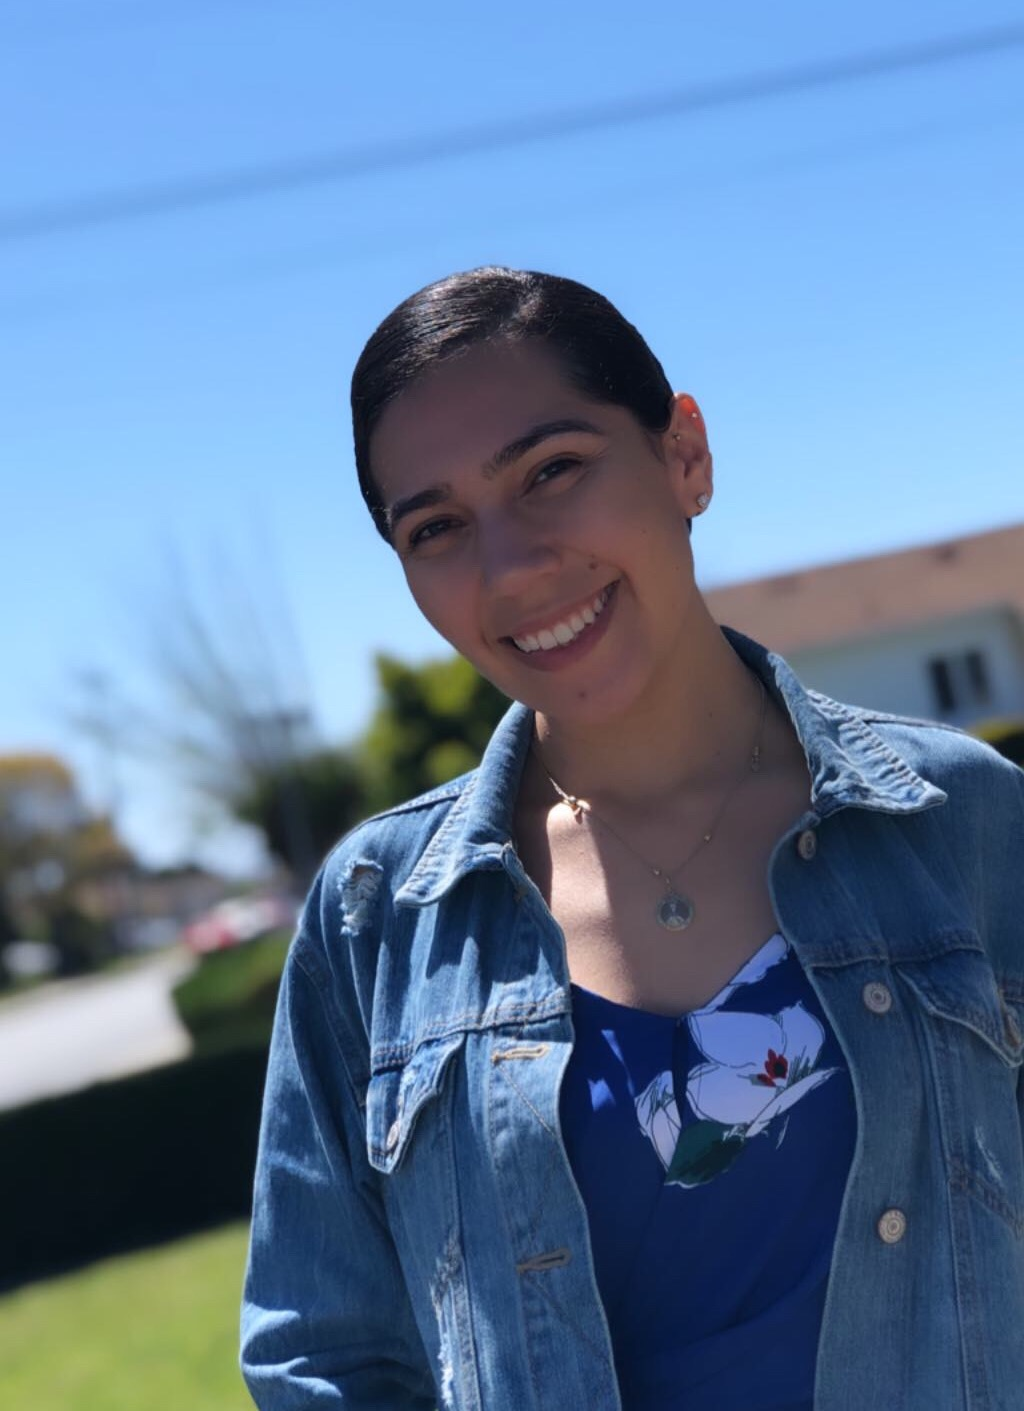
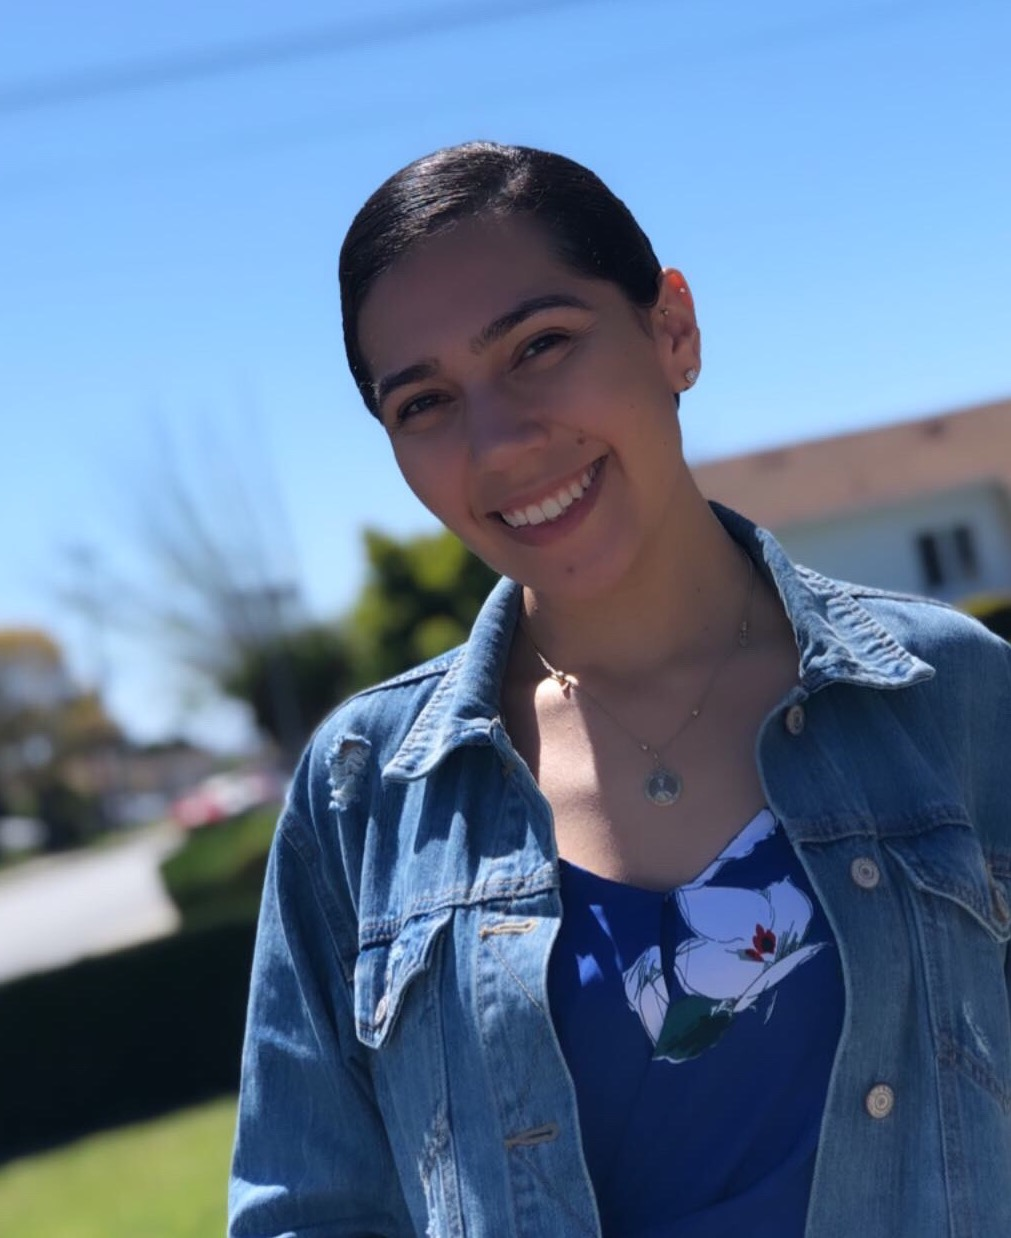
changed about page background and layout

diff --git a/src/components/About.js b/src/components/About.js
@@ -1,5 +1,4 @@
 import React, { Component } from 'react'
-import portrait from '../images/portrait.jpeg'
 import './stylesheets/about.css'
 import resume from '../images/lopez-resume.pdf'
 
@@ -7,8 +6,13 @@ export default class About extends Component {
   render() {
     return (
       <div className='about-container'>
-        <div className="vertical-swatch"></div>
         <div className='about-content'>
+          <div className='about-info'>
+            <h1 className='greeting'>Hello, I'm Haley.</h1>
+            <p className='about-text'>I am a Bay Area native looking for an opportunity to make social impact through technology. Technically, I built my first basic web application in 2012, but I didn't think I could pursue engineering fulltime so pursued a different route in higher education. After graduating with a B.S. in business, I went straight into nonprofit development where I learned there were many other ways to impact communities and chose to start learning HTML, CSS, and Javascript. </p>
+
+            <p>I was able to get into Rithm School, a bootcamp in San Francisco and learned a bunch of technologies and problem solving techniques. While at Rithm, I became proficient in a wide range of web technologies: Node, Express, Python, SQL, React, and more. For more details about my experience, click <a className='about-text-anchor' href={resume}>here</a>. </p>
+          </div>
           <div className='about-portrait-info'>
             <div className='portrait'>
             </div>
@@ -26,11 +30,8 @@ export default class About extends Component {
               </a>
             </div>
           </div>
-          <div className='about-info'>
-            <p className='greeting'>Hello</p>
-            <p className='about-text'>I am a Bay Area native looking for an opportunity to make global impact through an engineering role. I am proficient in a wide range of web technologies: Node, Express, Python, SQL, React, and more. For more details about my experience, click <a className='about-text-anchor' href={resume}>here</a>. </p> </div>
         </div>
       </div>
-        )
-      }
-    }
+    )
+  }
+}

diff --git a/src/components/stylesheets/about.css b/src/components/stylesheets/about.css
@@ -1,67 +1,48 @@
 .about-container{
+  height: 100vh;
   padding: 0;
   display: flex;
   justify-content: center;
   text-align: center;
   align-content: center;
   flex-flow: row wrap;
-  background-color: purple;
-  background-image: url('../../images/flowers.jpeg');
-  background-position: 5% 75%;
-  background-repeat: no-repeat;
-  background-size: contain;
-}
-
-/* .rectangle{
-  height: 100vh;
-  width: 100px;
-  background-image: url('../../images/flowers.jpeg');
-  background-position: center;
+  background-image: url('../../images/sunflowers.jpg');
   background-repeat: no-repeat;
   background-size: cover;
-} */
- 
- /* .rectangle{
-  background-image: url('../../images/flowers.jpeg');
-  background-position: 5% 75%;
-  background-repeat: no-repeat;
-  background-size: contain;
-  background-color:palegreen; 
-} */
+}
  
 .about-content{
   display: flex;
-  flex-direction: column;
-  min-height: 100vh;
   justify-content: center;
   align-items: center;
-  background-color: orangered;
+  background-color: white;
+  max-width: 60rem;
+  padding: 30px 35px;
 }
 
 .about-portrait-info{
   display: flex;
   align-items: center;
-  background-color: greenyellow;
 }
 
 .portrait{
-  background-image: url('../../images/portrait.jpeg');
-  height: 400px;
-  width: 300px;
+  background-image: url('../../images/round.png');
+  height: 350px;
+  width: 230px;
   background-position: center;
   background-repeat: no-repeat;
   background-size: contain;
+  margin-right: 5px;
 }
 
 .about-info{
-  width: 610px;
+  width: 40rem;
 }
 
 .greeting{
-  font-size: 5rem;
-  font-family: 'Dancing Script', cursive;
-  margin-bottom: 0;
-  /* background-color: aqua; */
+  font-size: 3.3rem;
+  font-family: 'Frank Ruhl Libre', serif; 
+   margin-bottom: 0;
 }
 
 .about-icon{
@@ -69,14 +50,8 @@
   color: black;
 }
 
-.about-icons{
-  /* background-color: orange; */
-  margin: 5px;
-}
-
 .about-text{
-  font-size: 1rem;
-  /* background-color: pink; */
+  font-size: .9rem;
   font-family: 'Lora', serif;
 }
 

diff --git a/src/components/NavBar.js b/src/components/NavBar.js
@@ -3,7 +3,7 @@ import { NavLink } from 'react-router-dom'
 import './stylesheets/navbar.css'
 
 export default class NavBar extends Component {
-  constructor(props){
+  constructor(props) {
     super(props);
     this.state = {
       navbarExpanded: false
@@ -12,7 +12,7 @@ export default class NavBar extends Component {
 
   toggleNav = () => {
     this.setState({
-      navbarExpanded:!this.state.navbarExpanded
+      navbarExpanded: !this.state.navbarExpanded
     })
   }
   render() {
@@ -25,14 +25,14 @@ export default class NavBar extends Component {
 
         <div className="collapse navbar-collapse" id="navbarTogglerDemo02">
           <ul className="navbar-nav mr-auto ml-auto mt-2 mt-lg-0">
-            <li className="nav-item active">
-              <NavLink className="nav-link" exact to='/' onClick={this.toggleNav}>Home <span className="sr-only">(current)</span></NavLink>
-            </li>
             <li className="nav-item">
               <NavLink className="nav-link" exact to='/about' onClick={this.toggleNav}>About</NavLink>
             </li>
             <li className="nav-item">
-              <NavLink className="nav-link" exact to='/work' onClick={this.toggleNav}>Work</NavLink>
+              <NavLink className="nav-link" exact to='/projects' onClick={this.toggleNav}>Projects</NavLink>
+            </li>
+            <li className="nav-item">
+              <NavLink className="nav-link" exact to='/contact' onClick={this.toggleNav}>Contact</NavLink>
             </li>
           </ul>
         </div>

diff --git a/src/components/stylesheets/home.css b/src/components/stylesheets/home.css
@@ -21,33 +21,25 @@
   align-items: center;
 }
 
-.name-container{
-  margin: 20px;
-}
-
-.name{
+.first-name{
   font-family: 'Playfair Display', serif;  
-  font-size: 120px;
+  font-size: 5rem;
 }
 
 .last-name{
-  font-size: 33px;
+  font-size: 1.4rem;
   display: inline-block;
   transform: rotate(-90deg);
   transform-origin: 25% 30%;
 }
 
-.first-three{
-  display: inline-block;
-}
-
 .details{
   font-family: 'Playfair Display', serif;  
-  font-size: 35px;
-  padding: 20px;
+  font-size: 2.5rem;
+  padding: 0px 5px;
   background-color: rgb(17, 17, 17);
   opacity: .8;
-  width: 360px;
+  width: 365px;
   margin: 20px;
 }
 
@@ -61,7 +53,7 @@
     flex-direction: column;
   }
   
-  .name{
+  .first-name{
     font-family: 'Playfair Display', serif;  
     font-size: 75px;
   }
@@ -71,10 +63,6 @@
     display: inline-block;
     transform: rotate(-90deg);
     transform-origin: 25% 30%;
-  }
-  
-  .first-three{
-    display: inline-block;
   }
   
   .details{

diff --git a/src/components/Home.js b/src/components/Home.js
@@ -9,18 +9,12 @@ export default class Home extends Component {
       <Fade bottom>
         <div className='home'>
           <div className='element-container'>
-
-            <div className='name-container'>
-              <div className='name first-three'>
-                HAL
-          </div>
-              <div className='name last-two'>
-                EY
+              <div className='first-name'>
+                HALEY
             <div className='last-name'>
                   Lopez
             </div>
               </div>
-            </div>
             <div className='details'>
               <Typewriter options={{
                 strings: ['Software Engineer.', 'React', 'Node', 'Python', 'SQL'],

diff --git a/public/index.html b/public/index.html
@@ -25,7 +25,7 @@
     <link href="https://fonts.googleapis.com/css?family=Playfair+Display&display=swap" rel="stylesheet">
   <link href="https://fonts.googleapis.com/css?family=Lora&display=swap" rel="stylesheet">
   <link href="https://fonts.googleapis.com/css?family=Dancing+Script&display=swap" rel="stylesheet">
-  <!--
+  <link href="https://fonts.googleapis.com/css?family=Frank+Ruhl+Libre&display=swap" rel="stylesheet">  <!--
       Notice the use of %PUBLIC_URL% in the tags above.
       It will be replaced with the URL of the `public` folder during the build.
       Only files inside the `public` folder can be referenced from the HTML.

diff --git a/src/components/stylesheets/navbar.css b/src/components/stylesheets/navbar.css
@@ -8,7 +8,7 @@
   text-decoration: none;
   color: black;
   margin: 2px 7px;
-  font-family: 'Lora', serif;  font-size: larger;
+  font-family: 'Lora', serif;  font-size: normal;
   display: inline-block;
   vertical-align: middle;
   line-height: normal;
